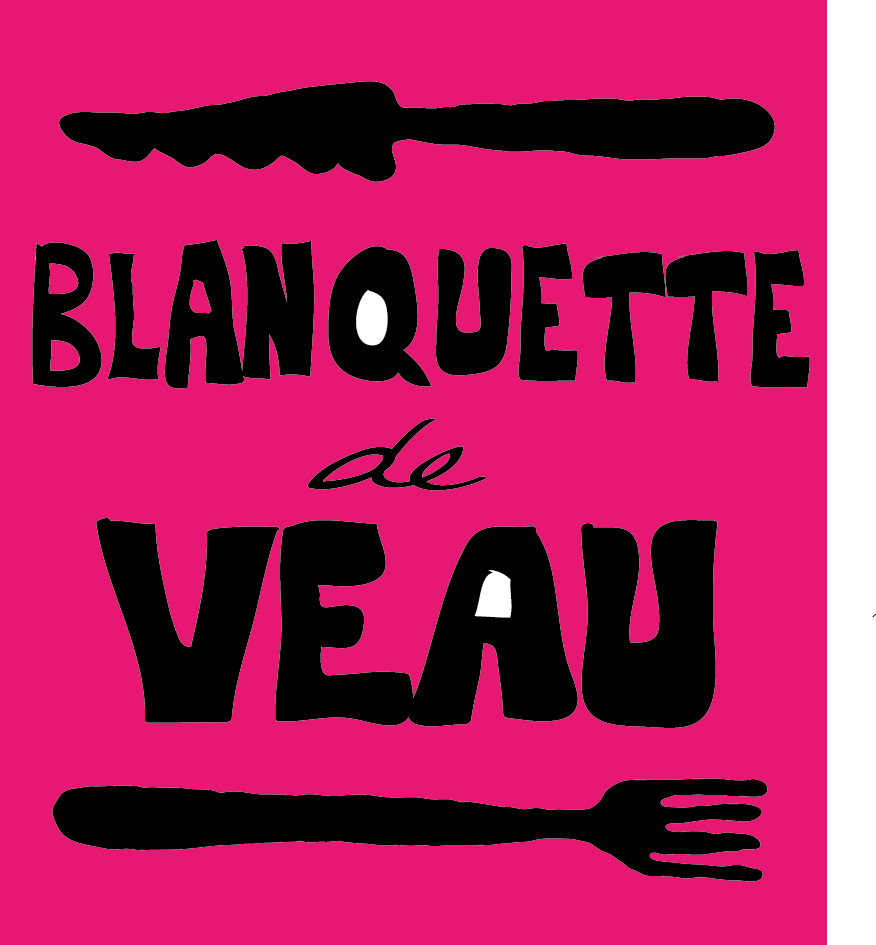
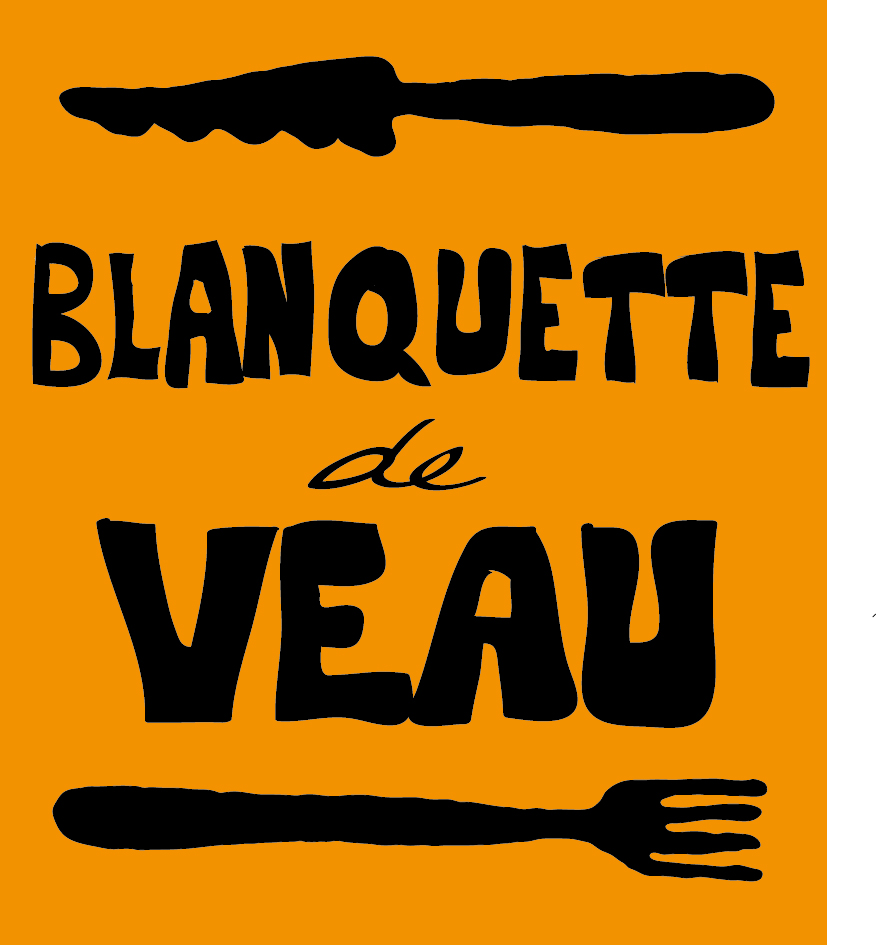
Update pot labels

diff --git a/assets/static/gen/styles.js b/assets/static/gen/styles.js
@@ -1,1 +1,1 @@
-!function(e){function o(r){if(n[r])return n[r].exports;var s=n[r]={i:r,l:!1,exports:{}};return e[r].call(s.exports,s,s.exports,o),s.l=!0,s.exports}var n={};o.m=e,o.c=n,o.i=function(e){return e},o.d=function(e,n,r){o.o(e,n)||Object.defineProperty(e,n,{configurable:!1,enumerable:!0,get:r})},o.n=function(e){var n=e&&e.__esModule?function(){return e.default}:function(){return e};return o.d(n,"a",n),n},o.o=function(e,o){return Object.prototype.hasOwnProperty.call(e,o)},o.p="",o(o.s=1)}([,function(e,o){throw new Error('Module build failed: ModuleBuildError: Module build failed: \n$gray: #696969;\n              ^\n      Invalid CSS after "$gray: #696969;": expected 1 selector or at-rule, was "body"\n      in /Users/max/projects/the-blue-parrot/ziboinboin.com/webpack/scss/main.scss (line 8, column 16)\n    at runLoaders (/Users/max/projects/the-blue-parrot/ziboinboin.com/webpack/node_modules/webpack/lib/NormalModule.js:192:19)\n    at /Users/max/projects/the-blue-parrot/ziboinboin.com/webpack/node_modules/loader-runner/lib/LoaderRunner.js:364:11\n    at /Users/max/projects/the-blue-parrot/ziboinboin.com/webpack/node_modules/loader-runner/lib/LoaderRunner.js:230:18\n    at context.callback (/Users/max/projects/the-blue-parrot/ziboinboin.com/webpack/node_modules/loader-runner/lib/LoaderRunner.js:111:13)\n    at Object.asyncSassJobQueue.push [as callback] (/Users/max/projects/the-blue-parrot/ziboinboin.com/webpack/node_modules/sass-loader/lib/loader.js:57:13)\n    at Object.<anonymous> (/Users/max/projects/the-blue-parrot/ziboinboin.com/webpack/node_modules/async/dist/async.js:2262:31)\n    at apply (/Users/max/projects/the-blue-parrot/ziboinboin.com/webpack/node_modules/async/dist/async.js:20:25)\n    at Object.<anonymous> (/Users/max/projects/the-blue-parrot/ziboinboin.com/webpack/node_modules/async/dist/async.js:56:12)\n    at Object.callback (/Users/max/projects/the-blue-parrot/ziboinboin.com/webpack/node_modules/async/dist/async.js:944:16)\n    at options.error (/Users/max/projects/the-blue-parrot/ziboinboin.com/webpack/node_modules/node-sass/lib/index.js:294:32)')}]);
+!function(e){function o(s){if(n[s])return n[s].exports;var r=n[s]={i:s,l:!1,exports:{}};return e[s].call(r.exports,r,r.exports,o),r.l=!0,r.exports}var n={};o.m=e,o.c=n,o.i=function(e){return e},o.d=function(e,n,s){o.o(e,n)||Object.defineProperty(e,n,{configurable:!1,enumerable:!0,get:s})},o.n=function(e){var n=e&&e.__esModule?function(){return e.default}:function(){return e};return o.d(n,"a",n),n},o.o=function(e,o){return Object.prototype.hasOwnProperty.call(e,o)},o.p="",o(o.s=1)}([,function(e,o){throw new Error('Module build failed: ModuleBuildError: Module build failed: \n$gray: #696969;\n              ^\n      Invalid CSS after "$gray: #696969;": expected 1 selector or at-rule, was "body"\n      in /Users/max/projects/ziboinboin.com/webpack/scss/main.scss (line 8, column 16)\n    at runLoaders (/Users/max/projects/ziboinboin.com/webpack/node_modules/webpack/lib/NormalModule.js:192:19)\n    at /Users/max/projects/ziboinboin.com/webpack/node_modules/loader-runner/lib/LoaderRunner.js:364:11\n    at /Users/max/projects/ziboinboin.com/webpack/node_modules/loader-runner/lib/LoaderRunner.js:230:18\n    at context.callback (/Users/max/projects/ziboinboin.com/webpack/node_modules/loader-runner/lib/LoaderRunner.js:111:13)\n    at Object.asyncSassJobQueue.push [as callback] (/Users/max/projects/ziboinboin.com/webpack/node_modules/sass-loader/lib/loader.js:57:13)\n    at Object.<anonymous> (/Users/max/projects/ziboinboin.com/webpack/node_modules/async/dist/async.js:2262:31)\n    at apply (/Users/max/projects/ziboinboin.com/webpack/node_modules/async/dist/async.js:20:25)\n    at Object.<anonymous> (/Users/max/projects/ziboinboin.com/webpack/node_modules/async/dist/async.js:56:12)\n    at Object.callback (/Users/max/projects/ziboinboin.com/webpack/node_modules/async/dist/async.js:944:16)\n    at options.error (/Users/max/projects/ziboinboin.com/webpack/node_modules/node-sass/lib/index.js:294:32)')}]);

diff --git a/templates/food-to-go.html b/templates/food-to-go.html
@@ -2,20 +2,18 @@
 {% block title %}Food to go{% endblock %}
 {% block body %}
   <h1>Food to go</h1>
-  <p>Work in progress!</p>
-  <!-- <p>There are pots available blabla</p>
   <div class="row text-center">
   {% for item in this.children %}
 
     {% set image = item.attachments.images.first() %}
 
-    <div class="col-sm-6 col-md-4">
-      <a href="{{ item|url }}" style="display:block;">
+    <div class="col-xs-6 col-sm-4 col-md-3">
+      <!-- <a href="{{ item|url }}" style="display:block;"> -->
         <div class="thumbnail">
           <img src="{{ item|url }}/label.jpg">
         </div>
-      </a>
+      <!-- </a> -->
     </div>
   {% endfor %}
-  </div> -->
+  </div>
 {% endblock %}
